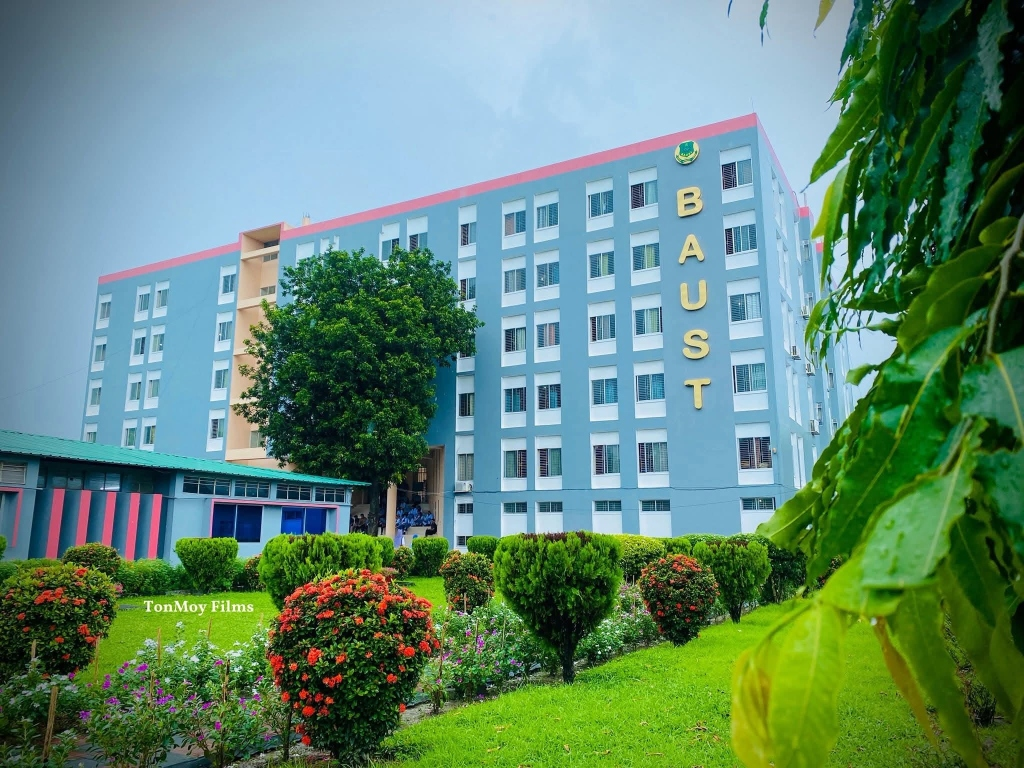
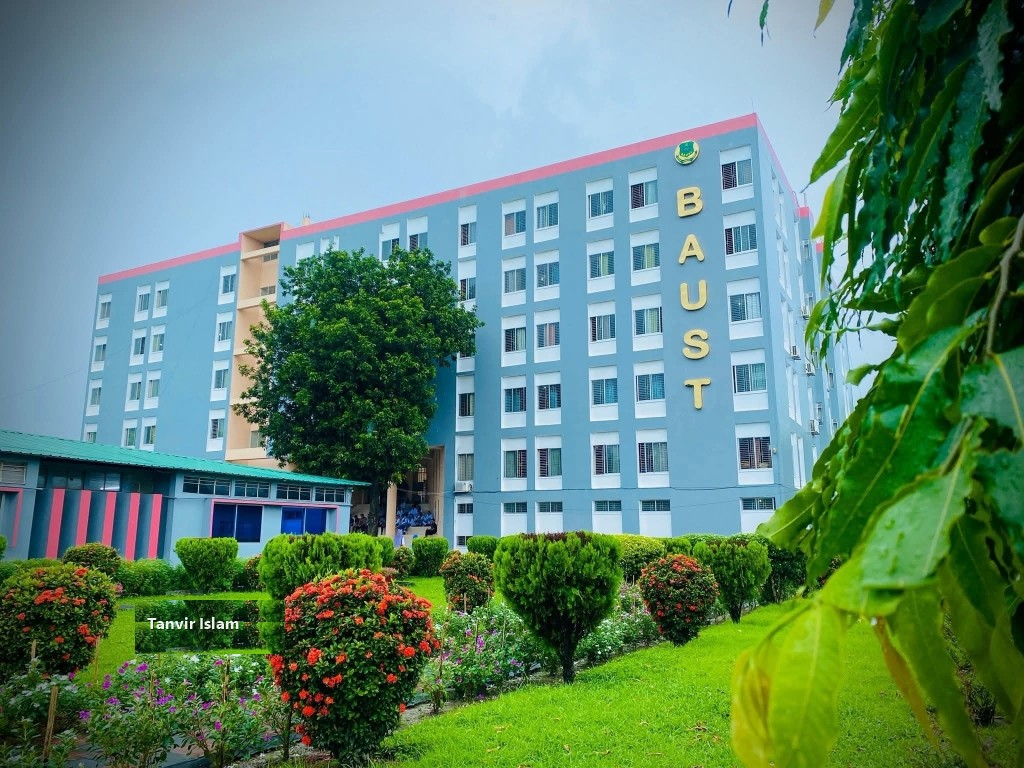
feat(interactive-lamp): replace Tonmoy Films watermark with Tanvir Islam on campus photo

Changed region(s): [[0.125, 0.7812, 0.2812, 0.875]]

diff --git a/Interactive-Lamp/lamp-login-01/index.html b/Interactive-Lamp/lamp-login-01/index.html
@@ -13,7 +13,7 @@
 
   <!-- Background Campus Photo Layer with Gradient Shading -->
   <div class="bg-photo-container">
-    <img src="assets/campus.jpg" alt="BAUST Campus" class="bg-campus-img" id="campusImg">
+    <img src="assets/campus.jpg?v=2" alt="BAUST Campus" class="bg-campus-img" id="campusImg">
     <div class="bg-shading-overlay"></div>
   </div>
 
